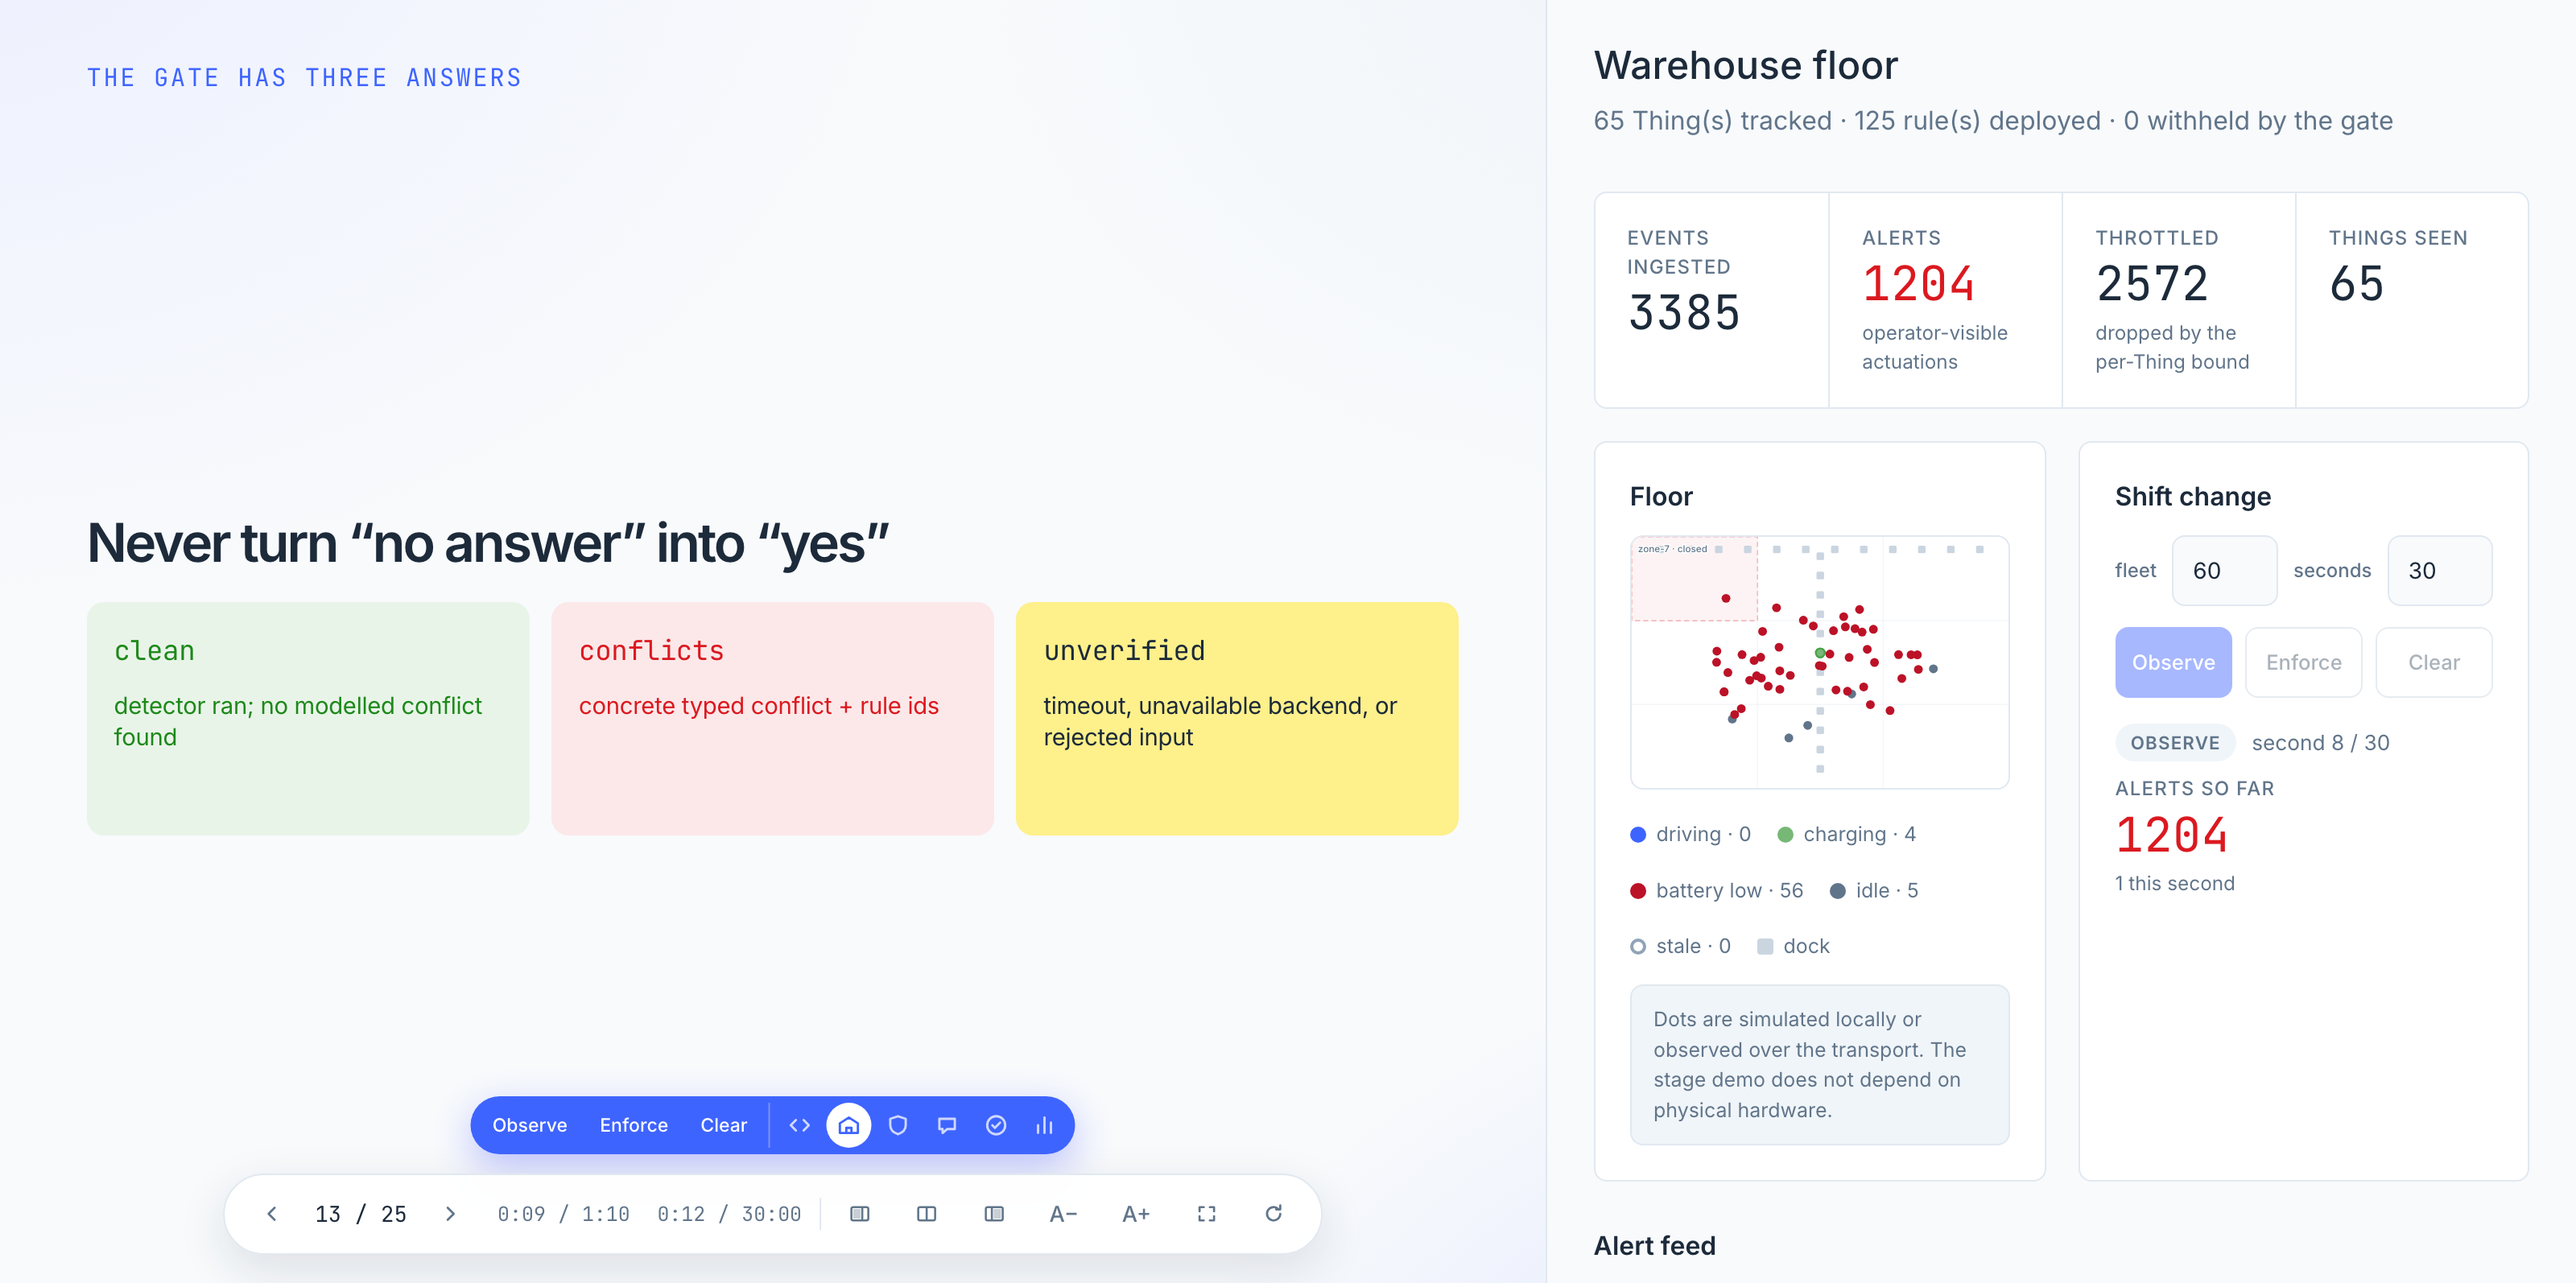
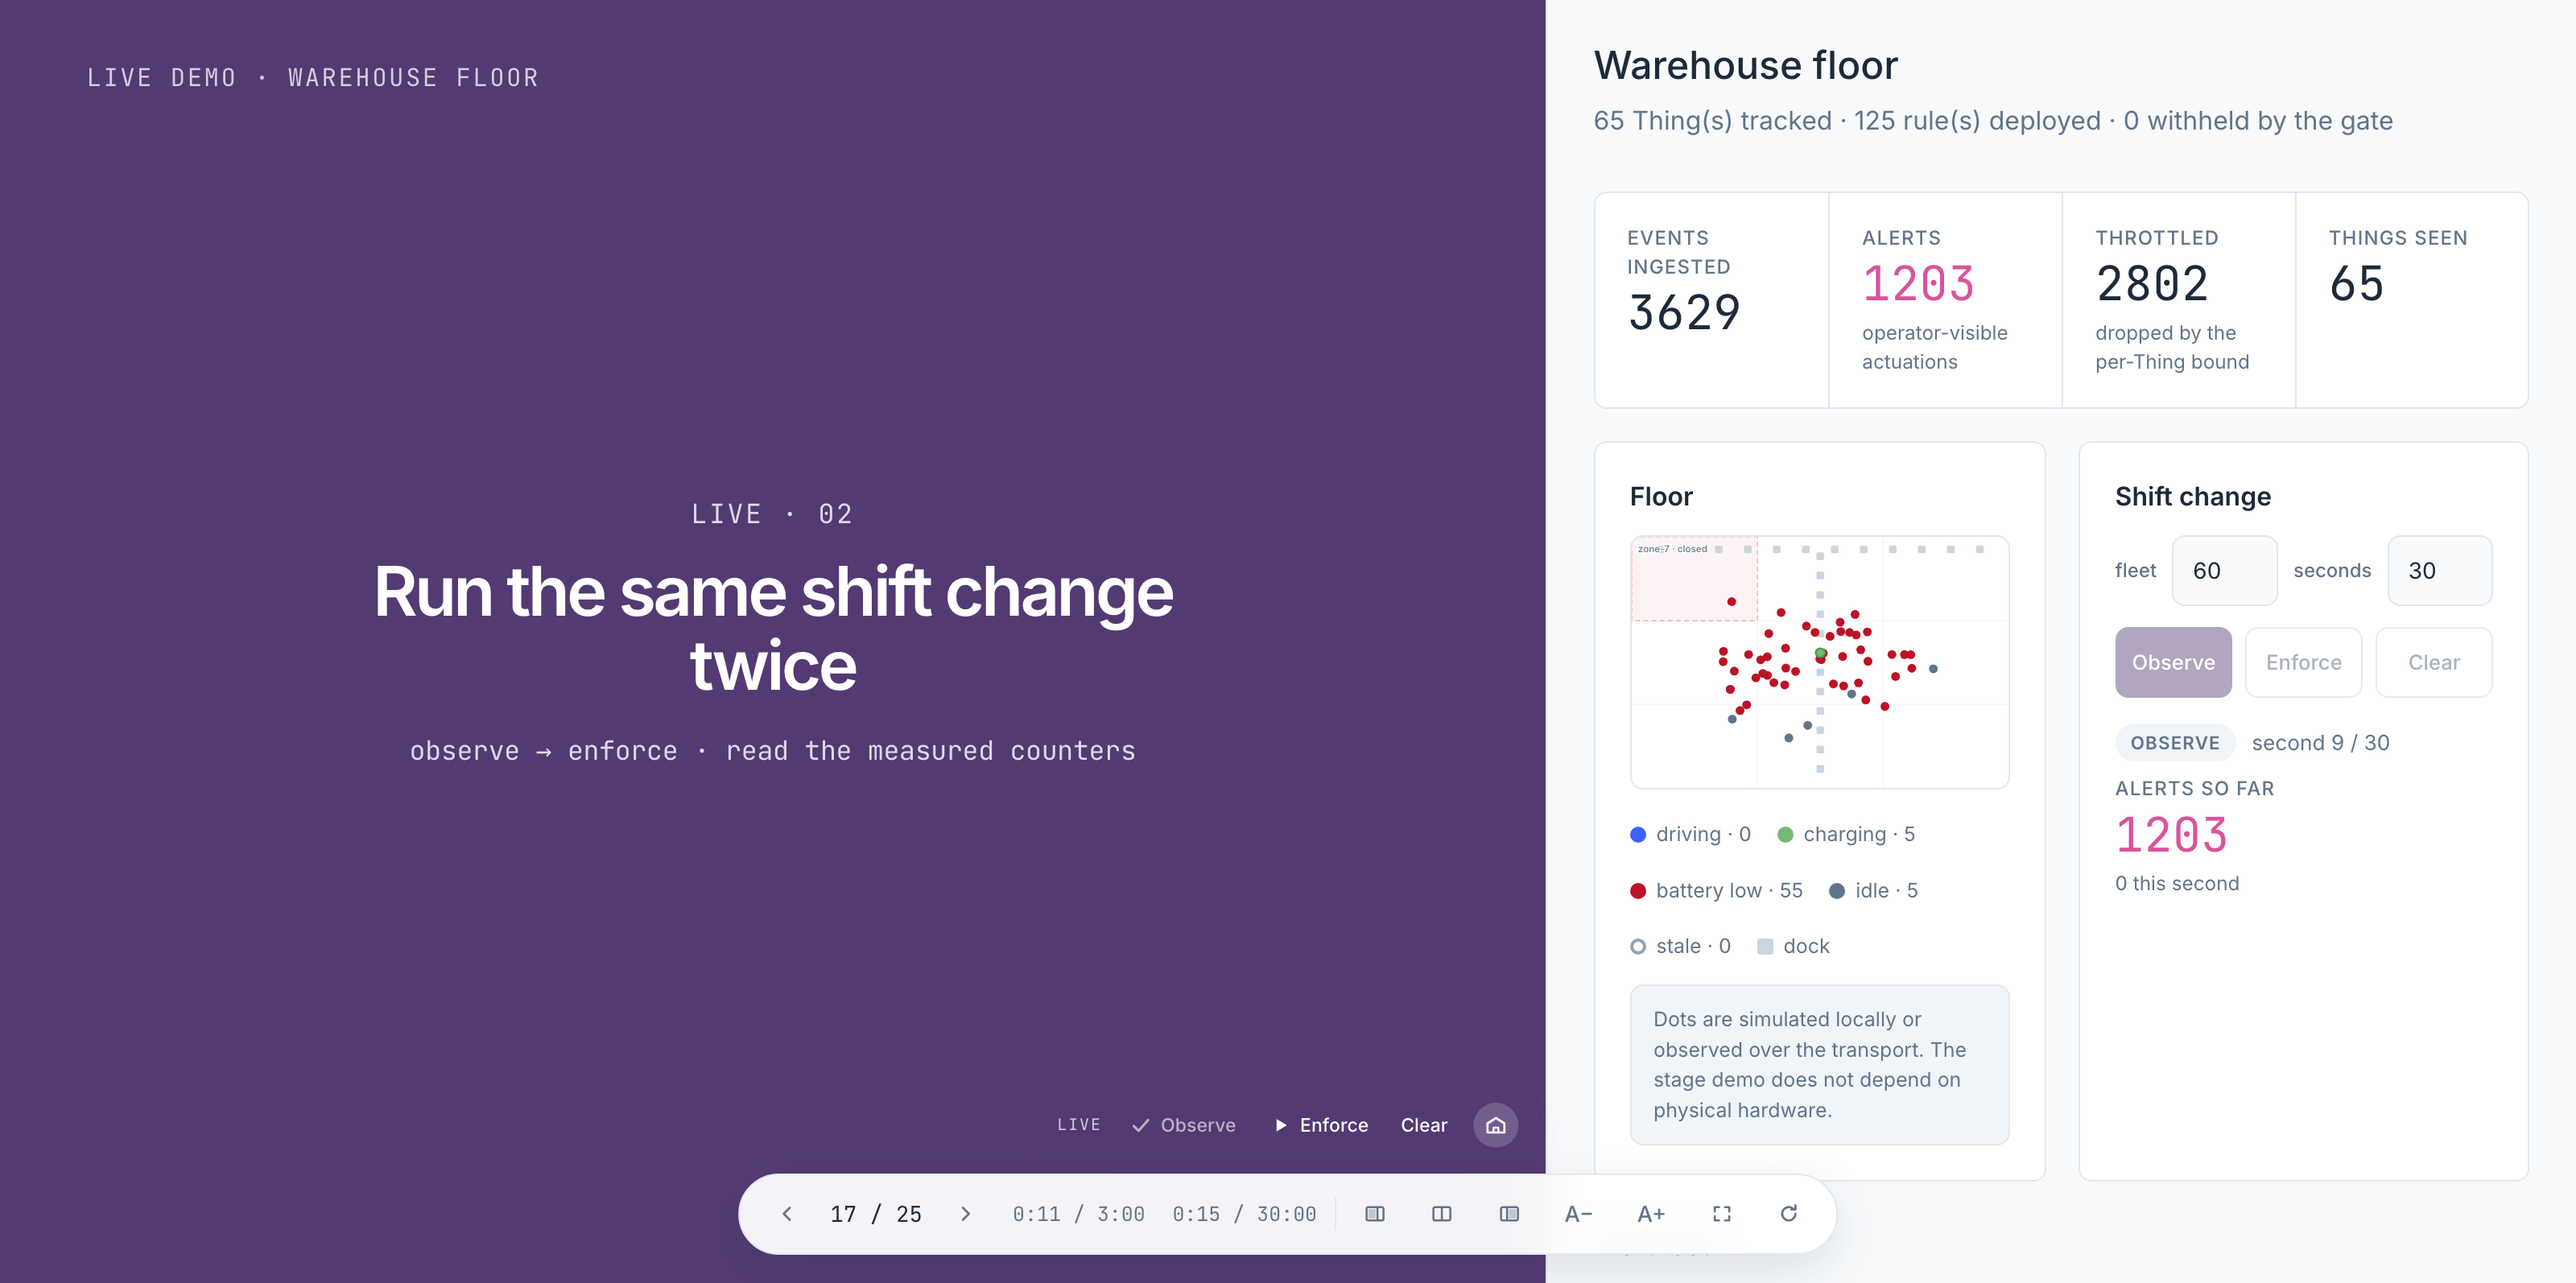
docs: share one quote style, link the benchmarks, refresh the screenshot

diff --git a/priv/static/assets/presenter-slides.css b/priv/static/assets/presenter-slides.css
@@ -99,9 +99,13 @@
   font-size: inherit;
 }
 
-.slide blockquote {
-  margin: 2.2cqw 0 0;
-  padding: 0 0 0 1.9cqw;
+/* One quote treatment, shared by blockquotes and the supporting lede on
+   content slides. Defined once so the two cannot drift apart. */
+.slide blockquote,
+.slide--default .sl-lede,
+.slide--statement .sl-lede {
+  margin: 2.4cqw 0 0;
+  padding: 0.5cqw 0 0.5cqw 1.9cqw;
   border-left: clamp(2px, 0.3cqw, 5px) solid var(--sl-accent);
   color: var(--sl-text);
   font-size: clamp(0.95rem, 2.27cqw, 2.1rem);
@@ -166,16 +170,6 @@
   color: var(--sl-subtext);
   font-size: clamp(0.95rem, 2.27cqw, 2.1rem);
   line-height: 1.35;
-}
-
-/* Supporting text on content slides wears the quote treatment: accent bar,
-   body ink. The title slide keeps its plain subtitle. */
-.slide--default .sl-lede,
-.slide--statement .sl-lede {
-  padding-left: 1.9cqw;
-  border-left: clamp(2px, 0.3cqw, 5px) solid var(--sl-accent);
-  color: var(--sl-text);
-  line-height: 1.3;
 }
 
 .sl-author {

diff --git a/README.md b/README.md
@@ -12,7 +12,7 @@ A simulation-only demo repository for the Goatmire 2026 talk: a simulated AGV wa
 
 ## The stage presenter
 
-<img src="docs/images/presenter.png" alt="The Goatmire presenter: the deck's three-verdict slide on the left, the live warehouse floor with device dots, engine counters, and a running shift change on the right" width="900" />
+<img src="docs/images/presenter.png" alt="The Goatmire presenter: the LIVE 02 slide on the left, the live warehouse floor with device dots, engine counters, and a running shift change on the right" width="900" />
 
 The talk runs from one fullscreen surface at [`/talk`](http://localhost:4000/talk): the deck on the left, the live system on the right, and a scripted step for each demo beat. No window switching, no second tool.
 
@@ -143,7 +143,15 @@ Do not quote a universal latency. Generate an artifact on the actual talk machin
 mix goatmire.benchmark --runs 10 --output tmp/goatmire-benchmark.json
 ```
 
-Benchee workloads live in [`bench/`](./bench) and record distributions, memory, and BEAM reductions separately from pass/fail tests.
+Benchee workloads in [`bench/`](./bench) record distributions, memory, and BEAM reductions separately from pass/fail tests. They are exploratory tools, not gates:
+
+```bash
+mix run --no-start bench/rule_eval_bench.exs   # runtime rule evaluation, 20 → 2000 rules
+mix run --no-start bench/partition_bench.exs   # interaction partitioning, 25 → 2005 rules
+mix run --no-start bench/verifier_bench.exs    # the full gate; needs Maude, parallel: 1
+```
+
+Every number they print belongs to one machine, one commit, and one rule corpus. Quote the artifact, never the number alone — see [`bench/README.md`](./bench/README.md).
 
 ---
 
